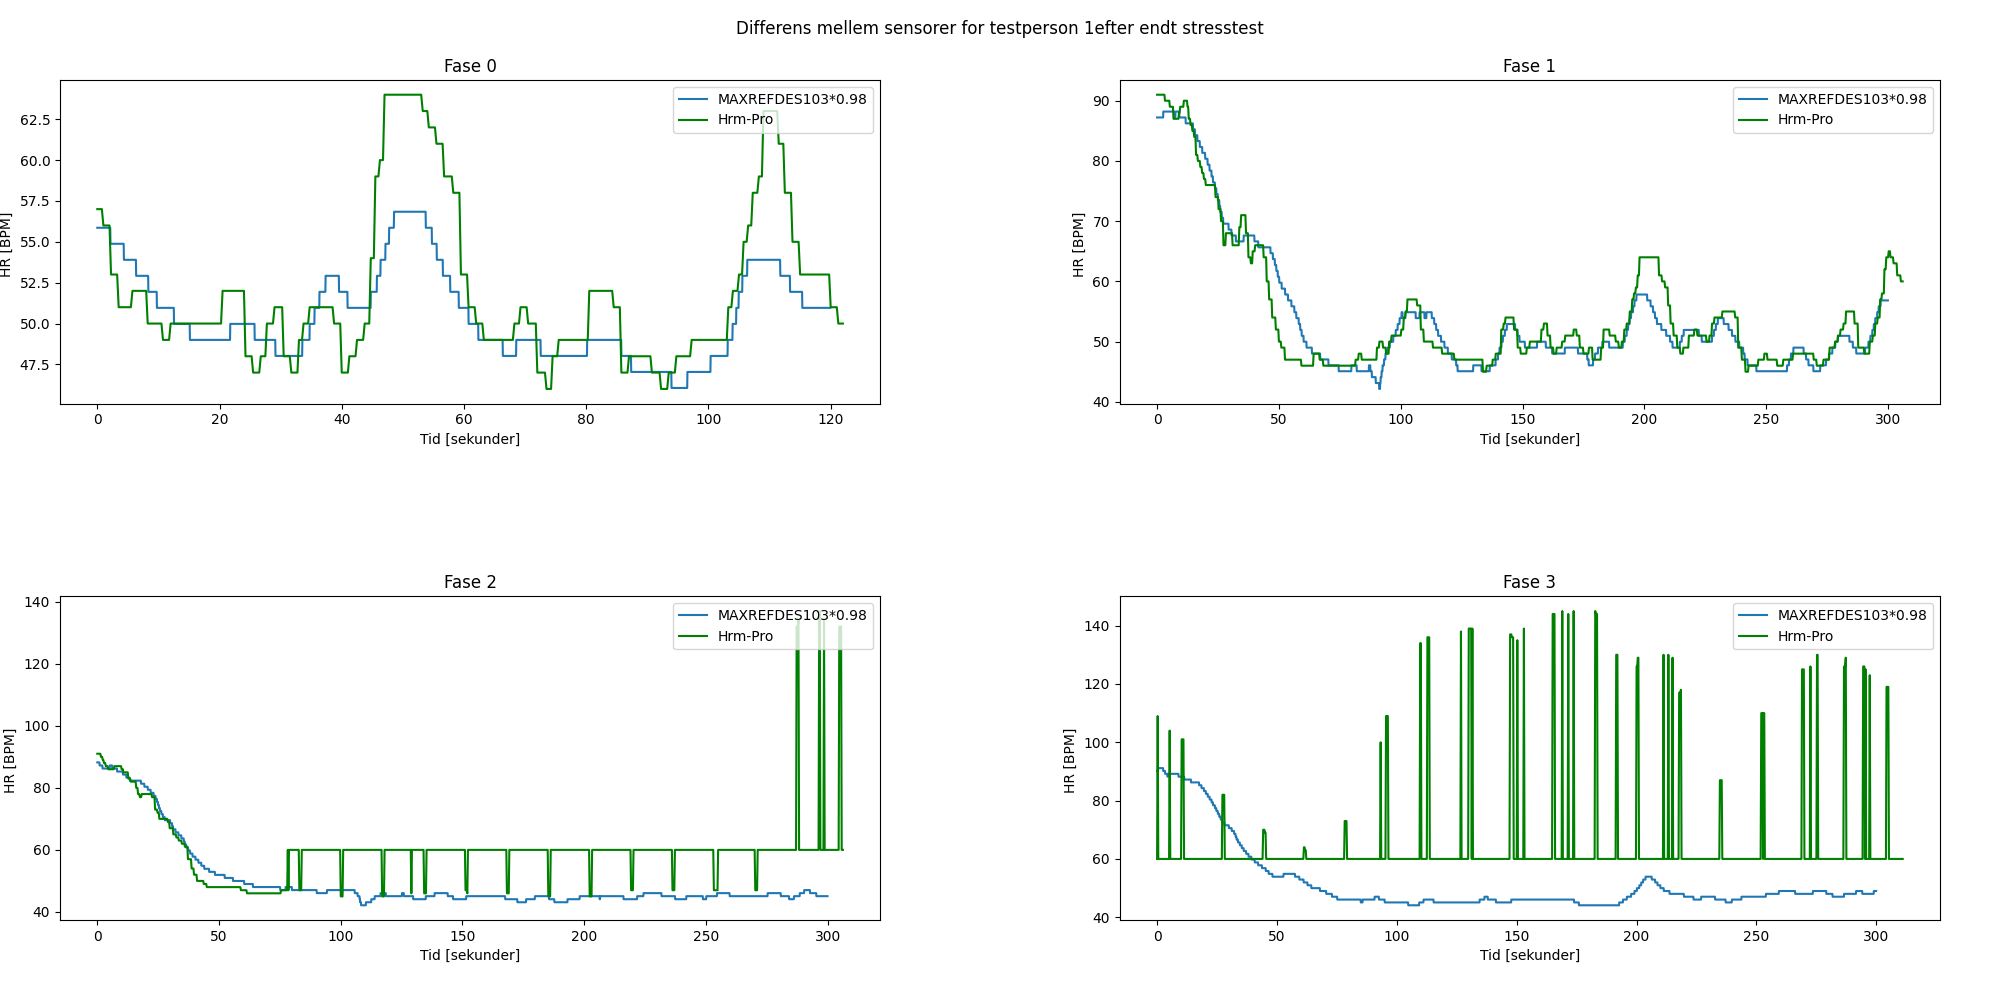
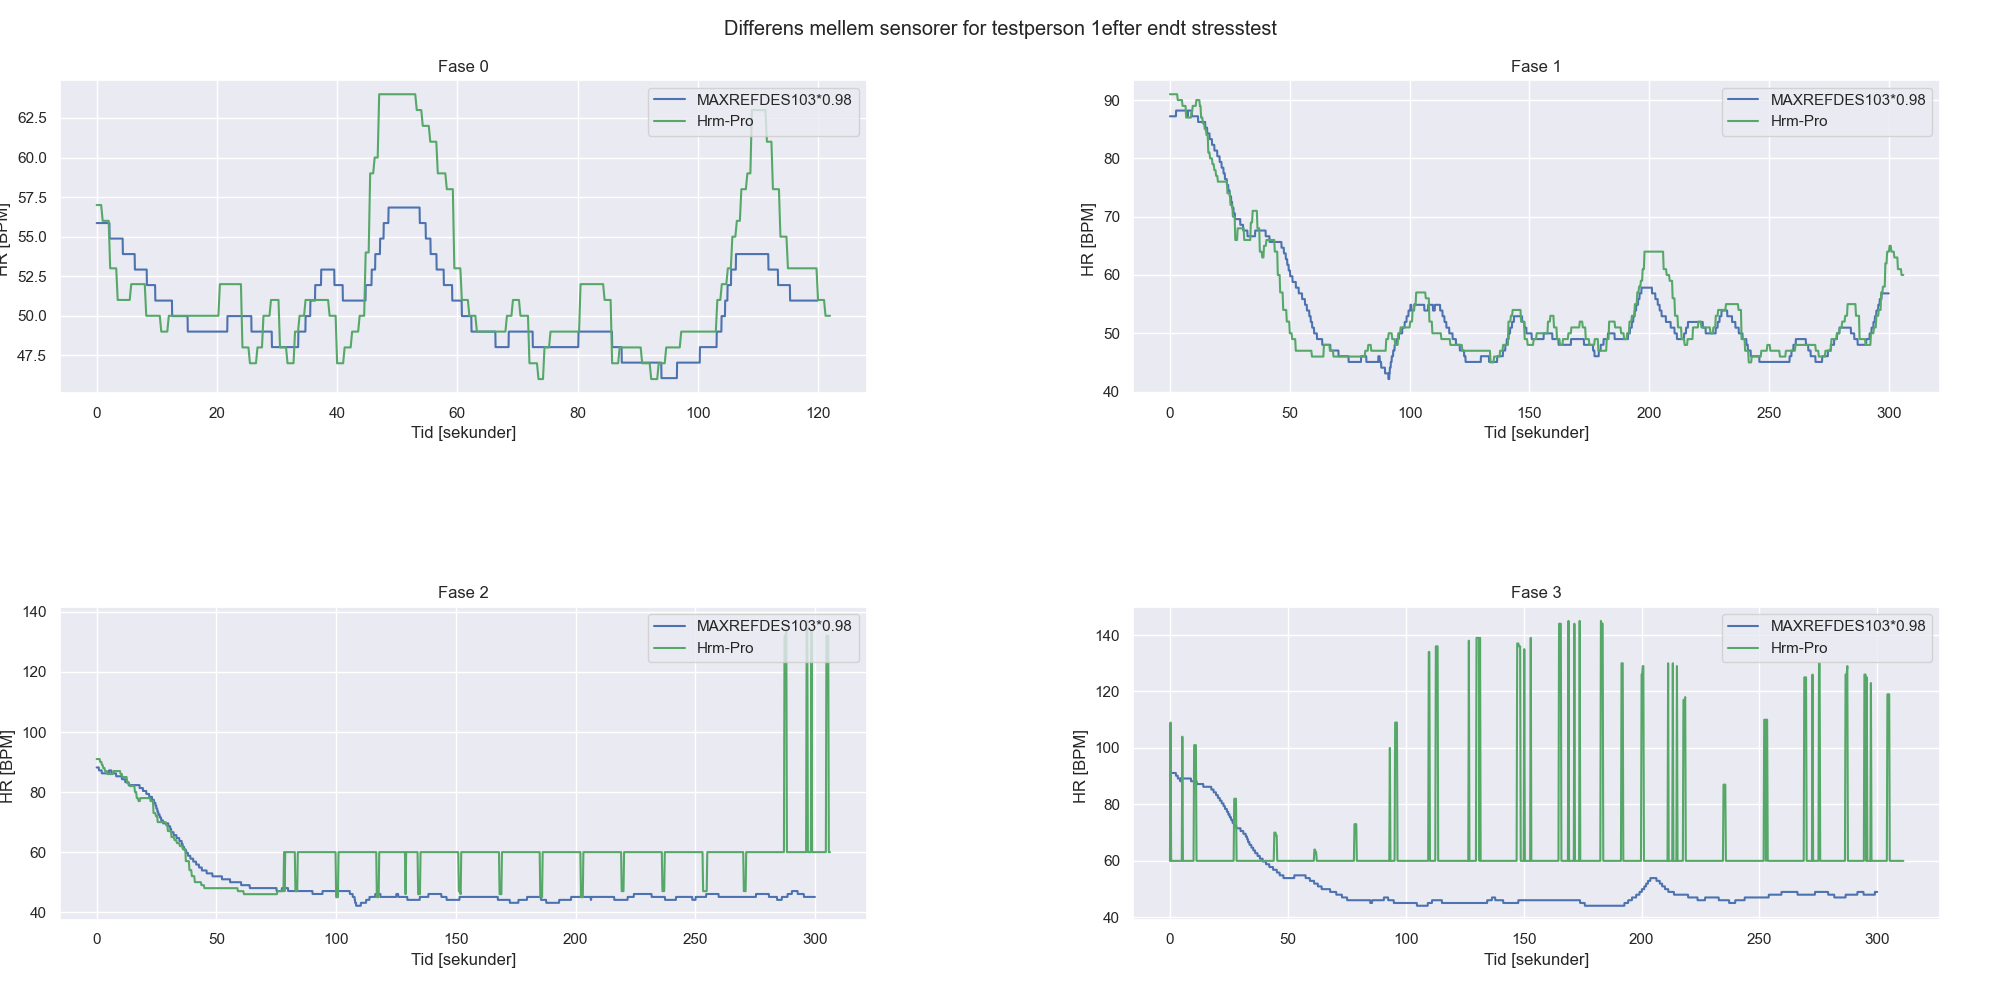
Smårettelser - nu skal du måske igang med powerfit

diff --git a/main.py b/main.py
@@ -105,18 +105,15 @@ while( i < len(fase_intervention)):
 Dict_with_obs_file = fr.read_hr_data()
 counter = 1
 antal_testpersoner = 14
-# Plotter alle hr afhængigt af tiden
-# while counter <= antal_testpersoner:
-#     counter += 1
 
 l = 0
 # Plotter alle hr afhængigt af tiden
 for n in range(len(brugbare_datasaet)):
-    #sammenligner.plot_differences(Dict_with_obs_file, counter=counter)
-    plotter.plot_hr_subplot(Dict_all_data=Dict_with_obs_file, counter=brugbare_datasaet[n])
-    #sammenligner.plot_corellation(Dict_with_obs_file, counter=counter)
-    #sammenligner.plot_normal_distribution(Dict_with_obs_file, counter = counter, type='QQ') #type = 'hist'
-    #sammenligner.plot_2_percentage_under(Dict_with_obs_file, counter)
+    # sammenligner.plot_differences(Dict_with_obs_file, counter=counter)
+    # plotter.plot_hr_subplot(Dict_all_data=Dict_with_obs_file, counter=brugbare_datasaet[n])
+    # sammenligner.plot_corellation(Dict_with_obs_file, counter=counter)
+    # #sammenligner.plot_normal_distribution(Dict_with_obs_file, counter = counter, type='hist') #type = 'QQ'
+    # sammenligner.plot_2_percentage_under(Dict_with_obs_file, counter)
     indexlist = resultater.procces_results(Dict_with_obs_file, counter = brugbare_datasaet[n])
     list_mean_std = resultater.get_mean_and_std_list()
     plotter.plot_limit_HRM_pro(Dict_with_obs_file, counter = brugbare_datasaet[n], index_list= indexlist, list_mean_std=list_mean_std, hastighed_list=resultater.get_coefs(), fase_intervention_list=fase_intervention_brugbare)

diff --git a/Sammenligning.py b/Sammenligning.py
@@ -186,7 +186,7 @@ class sammenligning_class():
                 path = 'C:/Users/hah/Documents/VISUAL_STUDIO_CODE/Forsoeg_sammenligningsscript/Figurer/Histogrammer/'
                 title = 'Testperson ' + str(counter) + " - Histogram over differenserne"
                 #fig.savefig(path + " " + title) #, dpi = 200)
-                plt.show()
+                #plt.show()
         elif type == 'QQ':
             for n in range(4):
                 self.QQ_plot(list_differneces[n]["Maxrefdes103"])
@@ -375,7 +375,7 @@ class sammenligning_class():
         fig.set_size_inches(20,10)
         fig.subplots_adjust(left=0.03, bottom=0.08, right=0.97, top=0.92, wspace=None, hspace=None)
         # #path = 'C:/Users/hah/Documents/VISUAL_STUDIO_CODE/Forsoeg_sammenligningsscript/Figurer/Differens/Med_krydskorellation/'
-        # path = 'C:/Users/hah/Documents/VISUAL_STUDIO_CODE/Forsoeg_sammenligningsscript/Figurer/Differens/Uden_krydskorellation/'
-        # title = 'Testperson ' + str(counter) + " - Uden krydskorellation"
-        # fig.savefig(path + " " + title) #, dpi = 200)
-        plt.show()
+        path = 'C:/Users/hah/Documents/VISUAL_STUDIO_CODE/Forsoeg_sammenligningsscript/Figurer/Differens/Uden_krydskorellation/'
+        title = 'Testperson ' + str(counter) + " - Uden krydskorellation"
+        fig.savefig(path + " " + title) #, dpi = 200)
+        #plt.show()

diff --git a/results.py b/results.py
@@ -93,7 +93,6 @@ class results_class():
         return index_list
         
 
-
     def __get_filtered_signal(self, raw_signal, average_value):
         N = average_value
         if(N%2 == 0):
